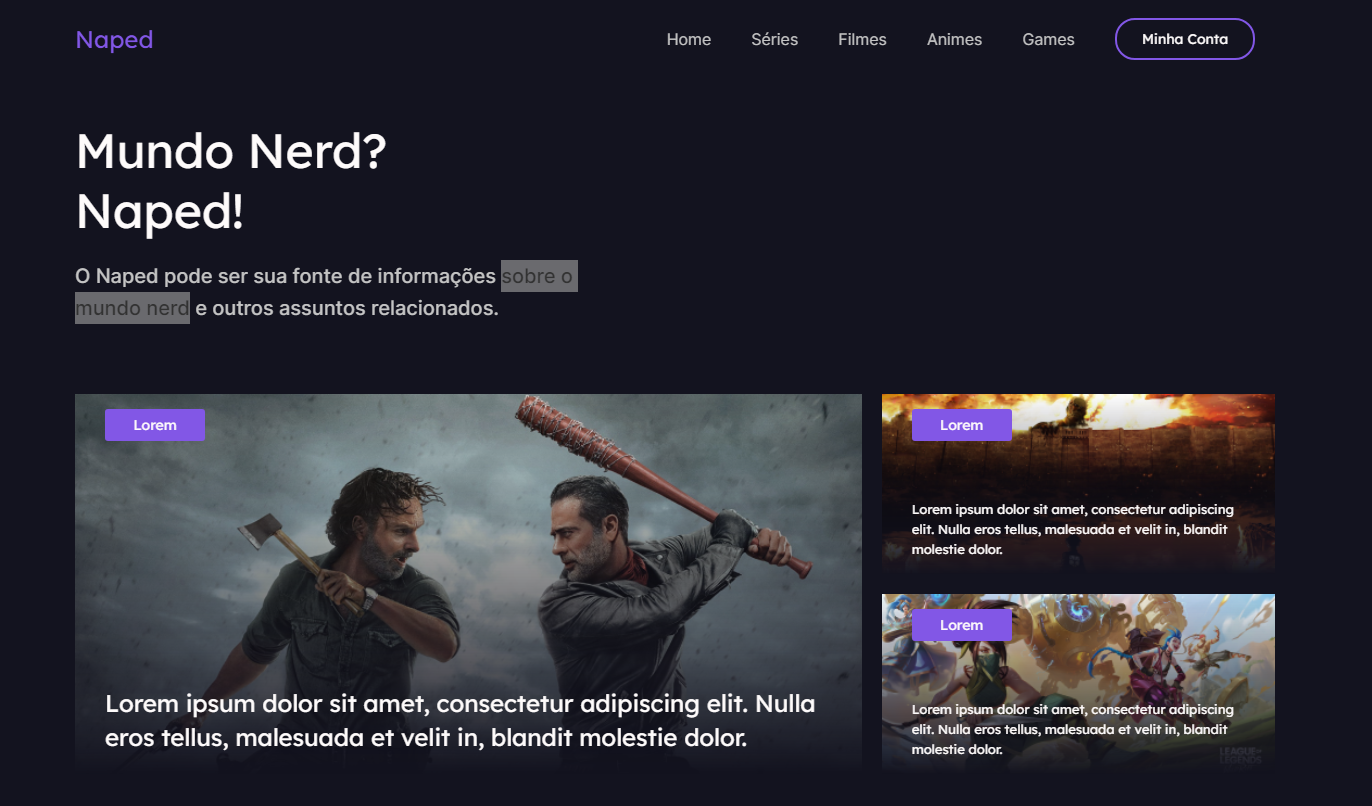
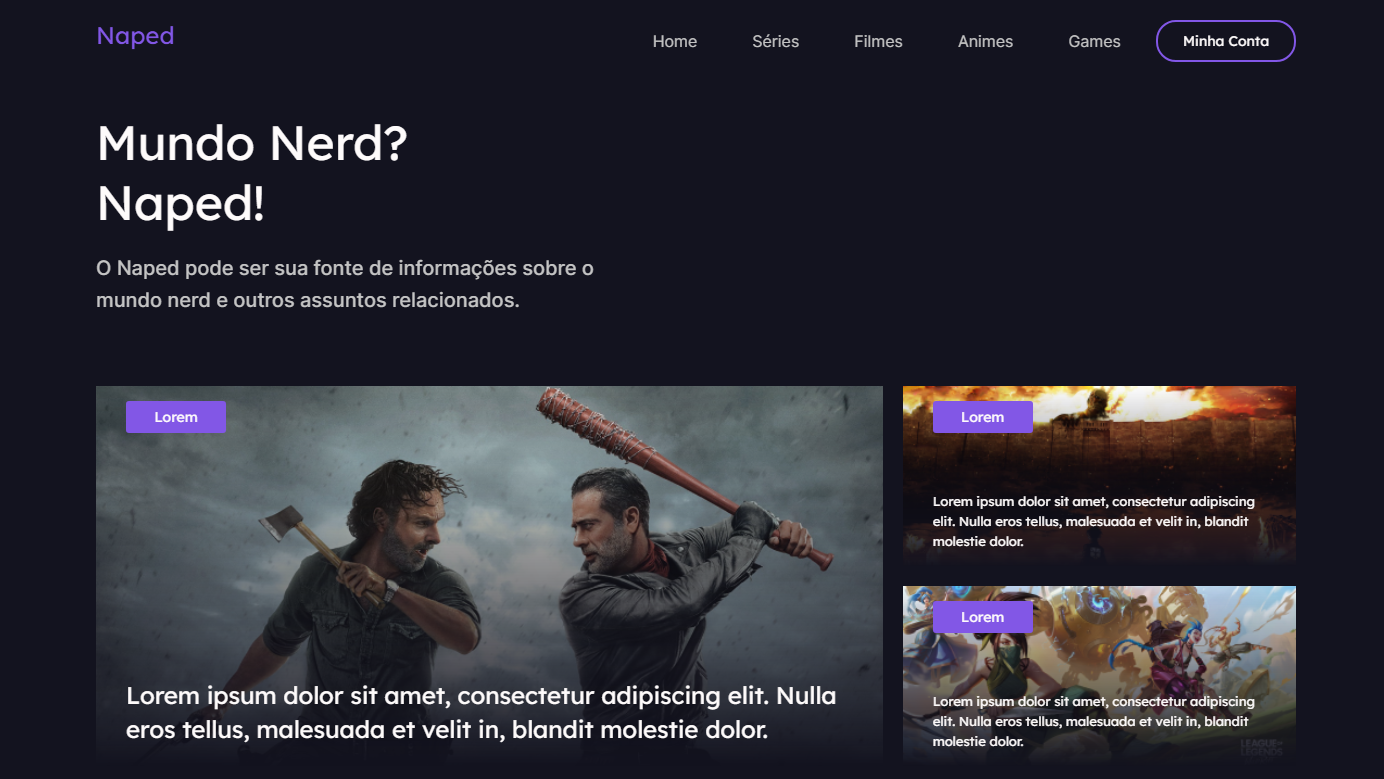
img naped

diff --git a/css/global.css b/css/global.css
@@ -35,7 +35,7 @@ img {
 .container {
   max-width: 1200px;
   /* min-height: 100vh; */
-  padding: 170px 40px;
+  padding: 100px 40px;
   margin: 0 auto;
   display: grid;
   grid-template-columns: 1fr 2fr;
